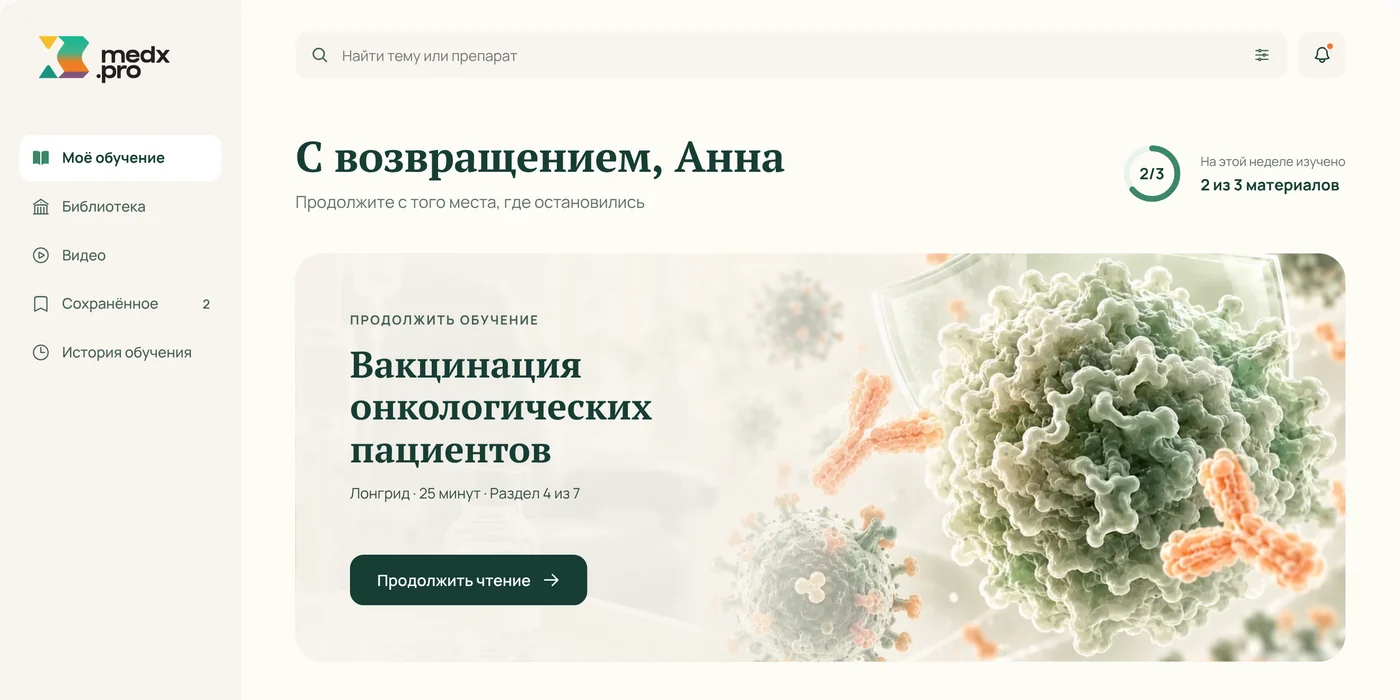
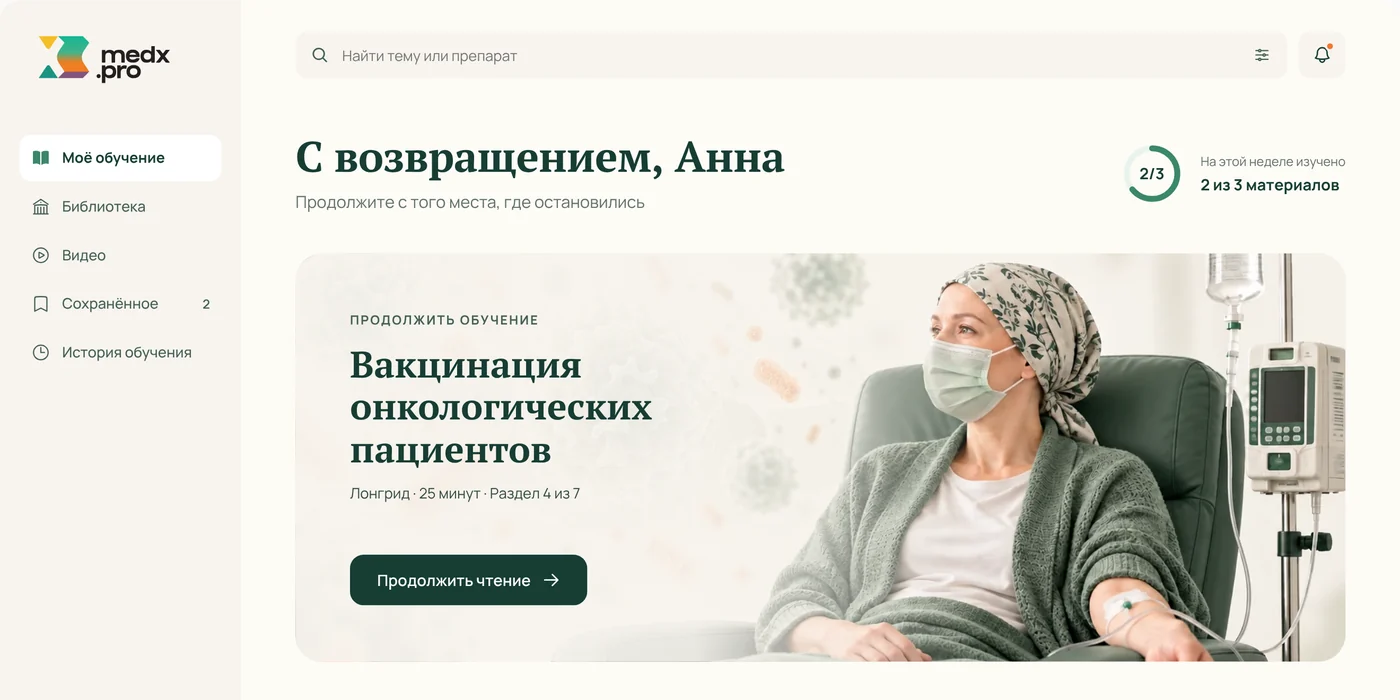
MedX case: real photos in the longread cards, fixed «Моё обучение» covers
Claude-Session: https://claude.ai/code/session_01TqLcehX4XyEFkhACod97GG

Changed region(s): [[0.4914, 0.36, 0.9829, 0.96], [0.5221, 0.36, 0.6143, 0.51], [0.5221, 0.51, 0.5529, 0.54]]

diff --git a/site/src/data/medx/lms.html b/site/src/data/medx/lms.html
@@ -76,7 +76,7 @@
 
     
     <section aria-labelledby="hero-title" style="position: relative; margin-top: 40px; min-height: 420px; box-sizing: border-box; padding: 56px; border-radius: 28px; overflow: hidden; display: flex; align-items: center; background-color: #F7F4EE">
-      <img src="__IMG__/ill-onco.webp" alt="" style="position: absolute; inset: 0; width: 100%; height: 100%; object-fit: cover; object-position: center 35%; transform: scaleX(-1)">
+      <img src="__IMG__/ill-onco-patient.webp" alt="" style="position: absolute; inset: 0; width: 100%; height: 100%; object-fit: cover; object-position: center 35%; transform: scaleX(-1)">
       <div aria-hidden="true" style="position: absolute; inset: 0; background: linear-gradient(90deg, rgba(247, 244, 238, 0.97) 0%, rgba(247, 244, 238, 0.93) 38%, rgba(247, 244, 238, 0.55) 52%, rgba(247, 244, 238, 0) 66%)"></div>
       <div style="position: relative; width: 480px; max-width: 100%; display: flex; flex-direction: column; gap: 20px">
         <div data-dc-group="" style="box-sizing: border-box; display: flex; flex-direction: column; gap: 0px; justify-content: normal; align-items: normal"><span style="font-size: 13px; font-weight: 700; letter-spacing: 0.12em; color: #465F57; text-transform: uppercase">Продолжить обучение</span><h2 style="margin: 16px 0 0; font-family: 'PT Serif', serif; font-weight: 700; font-size: 38px; line-height: 1.15; color: #173D34">Вакцинация онкологических пациентов</h2><p style="margin: 12px 0 0; font-size: 15px; line-height: 1.5; color: #344A43">Лонгрид · 25 минут · Раздел 4 из 7</p></div>
@@ -197,7 +197,7 @@
         
         <article style="display: flex; flex-direction: column; gap: 20px">
           <div style="position: relative; height: 240px; border-radius: 20px; background: #E8F3EE; overflow: hidden">
-            <img src="__IMG__/ill-onco-patient.webp" alt="Пациентка в маске на химиотерапии и бактерии" style="position: absolute; inset: 0; width: 100%; height: 100%; object-fit: cover; object-position: center; transform: scaleX(-1)">
+            <img src="__IMG__/ill-onco.webp" alt="Пациентка в маске на химиотерапии и бактерии" style="position: absolute; inset: 0; width: 100%; height: 100%; object-fit: cover; object-position: center; transform: scaleX(-1)">
             <button aria-label="Сохранить материал" style="position: absolute; top: 16px; right: 16px; width: 44px; height: 44px; border: 0; border-radius: 12px; background: #FFFFFF; display: flex; align-items: center; justify-content: center; color: #173D34">
               <svg width="20" height="20" viewBox="0 0 24 24" fill="none" stroke="currentColor" stroke-width="1.75" stroke-linecap="round" stroke-linejoin="round"><path stroke-linecap="round" stroke-linejoin="round" d="M17.593 3.322c1.1.128 1.907 1.077 1.907 2.185V21L12 17.25 4.5 21V5.507c0-1.108.806-2.057 1.907-2.185a48.507 48.507 0 0 1 11.186 0Z"></path></svg>
             </button>

diff --git a/site/src/data/medx/longread.html b/site/src/data/medx/longread.html
@@ -88,7 +88,7 @@
 <h3 class="h2">В первую очередь</h3>
 <div style="display: flex; gap: 24px; align-items: stretch;">
 <div style="flex: none; width: 460px; background: #f7f4ee; border-radius: 16px; padding: 28px; display: flex; flex-direction: column; gap: 22px;">
-<img src="__IMG__/ill-diabetes.webp" alt="Пожилая пациентка в маске перед прививкой" style="display: block; width: 404px; height: 200px; border-radius: 16px; object-fit: cover;">
+<img src="__IMG__/photo-risk.webp" alt="Пожилая пациентка в маске перед прививкой" style="display: block; width: 404px; height: 200px; border-radius: 16px; object-fit: cover;">
 <div style="display: flex; flex-direction: column; gap: 16px;">
 <h4 class="ct">Пациенты с факторами риска</h4>
 <div style="display: flex; flex-direction: column; gap: 10px;">
@@ -105,7 +105,7 @@
 </div>
 </div>
 <div style="flex: none; width: 460px; background: #f7f4ee; border-radius: 16px; padding: 28px; display: flex; flex-direction: column; gap: 22px;">
-<img src="__IMG__/ill-vector.webp" alt="Врач держит за руку пациентку в больничном коридоре" style="display: block; width: 404px; height: 200px; border-radius: 16px; object-fit: cover;">
+<img src="__IMG__/photo-staff.webp" alt="Врач держит за руку пациентку в больничном коридоре" style="display: block; width: 404px; height: 200px; border-radius: 16px; object-fit: cover;">
 <div style="display: flex; flex-direction: column; gap: 16px;">
 <h4 class="ct">Медперсонал</h4>
 <div style="display: flex; flex-direction: column; gap: 8px;">

diff --git a/tools/medx-extract.py b/tools/medx-extract.py
@@ -22,14 +22,14 @@ def grab(s, i):
             return s[i:m.end()]
     raise ValueError(tag)
 
-# Картинки канваса → обложки, которые прислал Дмитрий
+# Картинки канваса → обложки и фото, которые прислал Дмитрий (карточки «В первую очередь» в лонгриде — фото)
 BLOBS = {
     '7d4f8a8a6393a20e2422c5bd65e1b573': 'ill-onco-patient.webp',
-    '94fdb2bdb50e54914e7037e88a2e1b92': 'ill-diabetes.webp',
-    '0358809e0ab6974af30c0cdf60b70fad': 'ill-vector.webp',
+    '94fdb2bdb50e54914e7037e88a2e1b92': 'photo-risk.webp',
+    '0358809e0ab6974af30c0cdf60b70fad': 'photo-staff.webp',
     '182759340007e4ac27a5668576ab6b9e': 'ill-onco.webp',
-    '9288a387d4e1e7b43bce57abdf2e58e1': 'ill-onco.webp',
-    'dd3921ea1cc8a470985f25da6f666754': 'ill-onco-patient.webp',
+    '9288a387d4e1e7b43bce57abdf2e58e1': 'ill-onco-patient.webp',
+    'dd3921ea1cc8a470985f25da6f666754': 'ill-onco.webp',
     '14f9017466f308540d5d2116f71217a3': 'ill-origins.webp',
     'b198ff436f278d10a76c4ed89b72b69b': 'ill-origins.webp',
 }
